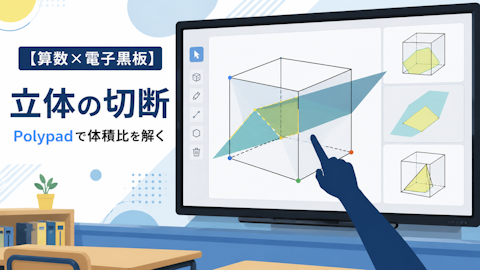
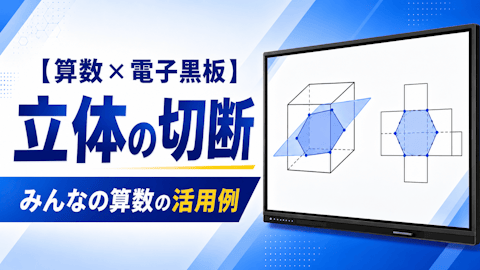
Update microCMS content

diff --git a/columns/minnano-sansu/index.html b/columns/minnano-sansu/index.html
@@ -13,12 +13,12 @@
     <meta charset="UTF-8">
     <meta name="viewport" content="width=device-width, initial-scale=1.0">
     
-    <title>【算数×電子黒板】立体の切断｜Polypadで体積比を解く｜Kokuban BASE</title>
+    <title>【算数×電子黒板】立体の切断｜みんなの算数の活用例｜Kokuban BASE</title>
     <meta name="description" content="中学受験算数の頻出単元「立体の切断」を、電子黒板と無料の立体切断シミュレーターで指導する授業アイデア。切断の3原則の確認から、立方体を回転させて体積を求める応用問題まで、小6直前期に使える授業の流れを紹介します。">
     <link rel="canonical" href="https://kokuban-base.com/columns/minnano-sansu/">
     
     <meta property="og:type" content="article">
-    <meta property="og:title" content="【算数×電子黒板】立体の切断｜Polypadで体積比を解く｜Kokuban BASE">
+    <meta property="og:title" content="【算数×電子黒板】立体の切断｜みんなの算数の活用例｜Kokuban BASE">
     <meta property="og:description" content="中学受験算数の頻出単元「立体の切断」を、電子黒板と無料の立体切断シミュレーターで指導する授業アイデア。切断の3原則の確認から、立方体を回転させて体積を求める応用問題まで、小6直前期に使える授業の流れを紹介します。">
     <meta property="og:url" content="https://kokuban-base.com/columns/minnano-sansu/">
     <meta property="og:image" content="https://kokuban-base.com/assets/eyecatch/denshikokuban-minnano-sansu.png">
@@ -28,7 +28,7 @@
     <meta property="article:modified_time" content="2026-07-28T17:18:28.511Z">
     
     <meta name="twitter:card" content="summary_large_image">
-    <meta name="twitter:title" content="【算数×電子黒板】立体の切断｜Polypadで体積比を解く｜Kokuban BASE">
+    <meta name="twitter:title" content="【算数×電子黒板】立体の切断｜みんなの算数の活用例｜Kokuban BASE">
     <meta name="twitter:description" content="中学受験算数の頻出単元「立体の切断」を、電子黒板と無料の立体切断シミュレーターで指導する授業アイデア。切断の3原則の確認から、立方体を回転させて体積を求める応用問題まで、小6直前期に使える授業の流れを紹介します。">
     <meta name="twitter:image" content="https://kokuban-base.com/assets/eyecatch/denshikokuban-minnano-sansu.png">
     
@@ -38,7 +38,7 @@
             "@context": "https://schema.org",
             "@type": "Article",
             "mainEntityOfPage": { "@type": "WebPage", "@id": "https://kokuban-base.com/columns/minnano-sansu/" },
-            "headline": "【算数×電子黒板】立体の切断｜Polypadで体積比を解く",
+            "headline": "【算数×電子黒板】立体の切断｜みんなの算数の活用例",
             "description": "中学受験算数の頻出単元「立体の切断」を、電子黒板と無料の立体切断シミュレーターで指導する授業アイデア。切断の3原則の確認から、立方体を回転させて体積を求める応用問題まで、小6直前期に使える授業の流れを紹介します。",
             "image": ["https://kokuban-base.com/assets/eyecatch/denshikokuban-minnano-sansu.png"],
             "datePublished": "2026-07-28T17:18:28.511Z",
@@ -56,7 +56,7 @@
             "itemListElement": [
                 { "@type": "ListItem", "position": 1, "name": "トップ", "item": "https://kokuban-base.com/" },
                 { "@type": "ListItem", "position": 2, "name": "コラム", "item": "https://kokuban-base.com/article" },
-                { "@type": "ListItem", "position": 3, "name": "【算数×電子黒板】立体の切断｜Polypadで体積比を解く", "item": "https://kokuban-base.com/columns/minnano-sansu/" }
+                { "@type": "ListItem", "position": 3, "name": "【算数×電子黒板】立体の切断｜みんなの算数の活用例", "item": "https://kokuban-base.com/columns/minnano-sansu/" }
             ]
         }
     ]
@@ -392,7 +392,7 @@
                         <svg class="w-4 h-4 mx-2 text-gray-400" fill="none" stroke="currentColor" viewBox="0 0 24 24" aria-hidden="true"><path stroke-linecap="round" stroke-linejoin="round" stroke-width="2" d="M9 5l7 7-7 7"></path></svg>
                     </li>
                     <li itemprop="itemListElement" itemscope itemtype="https://schema.org/ListItem">
-                        <span aria-current="page" class="font-semibold text-gray-900 line-clamp-1" itemprop="name">【算数×電子黒板】立体の切断｜Polypadで体積比を解く</span>
+                        <span aria-current="page" class="font-semibold text-gray-900 line-clamp-1" itemprop="name">【算数×電子黒板】立体の切断｜みんなの算数の活用例</span>
                         <meta itemprop="position" content="3">
                     </li>
                 </ol>
@@ -404,13 +404,13 @@
                 <!-- アイキャッチ -->
                 <div class="eyecatch-image mb-8 sm:mb-12">
                     <div class="image-wrapper rounded-2xl overflow-hidden shadow-xl">
-                        <img src="/assets/eyecatch/denshikokuban-minnano-sansu.png" alt="【算数×電子黒板】立体の切断｜Polypadで体積比を解く" width="1200" height="630" class="w-full h-auto rounded-lg mb-6 shadow-md" loading="eager" fetchpriority="high">
+                        <img src="/assets/eyecatch/denshikokuban-minnano-sansu.png" alt="【算数×電子黒板】立体の切断｜みんなの算数の活用例" width="1200" height="630" class="w-full h-auto rounded-lg mb-6 shadow-md" loading="eager" fetchpriority="high">
                     </div>
                 </div>
                 
                 <!-- タイトルブロック -->
                 <div class="title-block mb-12 sm:mb-16">
-                    <h1 id="main-article-title" class="text-[clamp(1.15rem,2.4vw,1.875rem)] font-black text-gray-900 mb-6 leading-[1.28]">【算数×電子黒板】立体の切断｜Polypadで体積比を解く</h1>
+                    <h1 id="main-article-title" class="text-[clamp(1.15rem,2.4vw,1.875rem)] font-black text-gray-900 mb-6 leading-[1.28]">【算数×電子黒板】立体の切断｜みんなの算数の活用例</h1>
 
                     
                     <div class="flex flex-col sm:flex-row items-center justify-center space-y-2 sm:space-y-0 sm:space-x-6">
@@ -446,8 +446,8 @@
             </a>
         </li>
         <li class="">
-            <a href="#h07b47ead53" class="toc-link block py-1.5 text-gray-700 hover:text-customBlue transition-colors leading-snug">
-                <span class="toc-bullet"></span>展開2｜さらに、直方体を切ってみた / アニメーション付き
+            <a href="#h90e8cec10e" class="toc-link block py-1.5 text-gray-700 hover:text-customBlue transition-colors leading-snug">
+                <span class="toc-bullet"></span>展開2｜実際の問題を解いてみる
             </a>
         </li>
         <li class="">
@@ -475,13 +475,13 @@
       <span class="internal-link-card__description">https://min-san.com/</span>
       <span class="internal-link-card__site">min-san.com</span>
     </span>
-  </a><h2 id="he6e5558fc5">展開1｜みんなの算数で、立体図形を切ってみる</h2><p>みんなの算数オンラインでは、切り取り点を選択するだけで、切断面を自動表示してくれます。</p><p></p><figure><img src="https://images.microcms-assets.io/assets/55c151aecffc4472b4f77af5a6755e38/5c212acbc3734bdb8a6cf4639f0d51bb/image.png" alt="" width="811" height="787"></figure><p>紙の教材だと、立体切断の解説は「言葉」で終わりがちです。電子黒板で立体切断シミュレーターを開き、立方体を画面いっぱいに映して、1つずつ確認していきます。自由自在に切断点や辺をコントロールできる仕組みなので、<strong>「この点とこの点を選択すると、どんな切断面になるだろうか」</strong>と臨場感のある授業ができます。まさしく電子黒板との相性の良いです。</p><p>「上手くイメージできない。」——これが立体の切断でつまずく子の多くが抱える感覚です。シミュレーターを繰り返し見せることで、少しずつイメージができるようになります。</p><h2 id="h07b47ead53">展開2｜さらに、直方体を切ってみた / アニメーション付き</h2><p>では、実際の問題を活用し、使用してみます。</p><figure><img src="https://images.microcms-assets.io/assets/55c151aecffc4472b4f77af5a6755e38/dccfde6482d64c99ad96a4b67fd128d9/ChatGPT%20Image%202026%E5%B9%B47%E6%9C%8829%E6%97%A5%2002_05_16.png" alt="" width="1254" height="1254"></figure><p>このような問題においても、まず電子黒板上で立体を自由に回転させ、切断面の位置や形をさまざまな角度から確認します。すると、この赤い立体は</p><p></p><figure><img src="https://images.microcms-assets.io/assets/55c151aecffc4472b4f77af5a6755e38/a4e5ecc60fdd405f8d396d7ea0de3b81/image.png" alt="" width="790" height="781"></figure><p>立体を回転させながら確認できるため、紙だけでは分かりにくい「高さ」や「底面」が一目で理解できるのが電子黒板の大きなメリットです。スクリーンショットで切り抜き、ホワイトボードへ添付することも可能です。</p><blockquote><p>立体の展開図を「動かして」理解できる教材はこちら</p><p><a href="/columns/digital-gene/" class="internal-link-card" aria-label="〈電子黒板の活用〉展開図は「動かして」覚える——立方体11種類が操作できるDigital geneで図形授業が変わる">
+  </a><h2 id="he6e5558fc5">展開1｜みんなの算数で、立体図形を切ってみる</h2><p>みんなの算数オンラインでは、切り取り点を選択するだけで、切断面を自動表示してくれます。</p><p></p><figure><img src="https://images.microcms-assets.io/assets/55c151aecffc4472b4f77af5a6755e38/5c212acbc3734bdb8a6cf4639f0d51bb/image.png" alt="" width="811" height="787"></figure><p>紙の教材だと、立体切断の解説は「言葉」で終わりがちです。電子黒板で立体切断シミュレーターを開き、立方体を画面いっぱいに映して、1つずつ確認していきます。自由自在に切断点や辺をコントロールできる仕組みなので、<strong>「この点とこの点を選択すると、どんな切断面になるだろうか」</strong>と臨場感のある授業ができます。まさしく電子黒板との相性の良いです。</p><p>「上手くイメージできない。」——これが立体の切断でつまずく子の多くが抱える感覚です。シミュレーターを繰り返し見せることで、少しずつイメージができるようになります。</p><h2 id="h90e8cec10e">展開2｜実際の問題を解いてみる</h2><p>では、実際の問題を活用し、使用してみます。</p><figure><img src="https://images.microcms-assets.io/assets/55c151aecffc4472b4f77af5a6755e38/dccfde6482d64c99ad96a4b67fd128d9/ChatGPT%20Image%202026%E5%B9%B47%E6%9C%8829%E6%97%A5%2002_05_16.png" alt="" width="1254" height="1254"></figure><p>このような問題においても、まず電子黒板上で立体を自由に回転させ、切断面の位置や形をさまざまな角度から確認します。すると、この赤い立体は</p><p></p><figure><img src="https://images.microcms-assets.io/assets/55c151aecffc4472b4f77af5a6755e38/a4e5ecc60fdd405f8d396d7ea0de3b81/image.png" alt="" width="790" height="781"></figure><p>立体を回転させながら確認できるため、紙だけでは分かりにくい「高さ」や「底面」が一目で理解できるのが電子黒板の大きなメリットです。スクリーンショットで切り抜き、ホワイトボードへ添付することも可能です。</p><blockquote><p>立体の展開図を「動かして」理解できる教材はこちら</p><p><a href="/columns/digital-gene/" class="internal-link-card" aria-label="〈電子黒板の活用〉展開図は「動かして」覚える——立方体11種類が操作できるDigital geneで図形授業が変わる">
     <span class="internal-link-card__image"><img src="https://images.microcms-assets.io/assets/55c151aecffc4472b4f77af5a6755e38/4300f2d9559349e190f44758c3ebac4a/%E7%AB%8B%E4%BD%93%E3%81%AE%E5%B1%95%E9%96%8B%E5%9B%B3%20(4).png?fit=crop&w=320&h=180&q=80" alt="〈電子黒板の活用〉展開図は「動かして」覚える——立方体11種類が操作できるDigital geneで図形授業が変わる" loading="lazy" decoding="async"></span>
     <span class="internal-link-card__body">
       <span class="internal-link-card__title">〈電子黒板の活用〉展開図は「動かして」覚える——立方体11種類が操作できるDigital geneで図形授業が変わる</span>
       <span class="internal-link-card__description">「展開図が苦手」を解消するインタラクティブ教材Digital geneを紹介。電子黒板上で、立方体の展開図11種類をスライダーで動かし、折る・展開する・視点を変える操作で空間認識が育つ。インストール不要でそのまま授業に使える。</span>
     </span>
-  </a> 立方体の展開図を電子黒板で操作しながら学べる教材Digital geneの活用事例を紹介しています。</p></blockquote><h2 id="h68c62756af">展開3｜さらに、直方体を切断 / アニメーション付き</h2><figure><img src="https://images.microcms-assets.io/assets/55c151aecffc4472b4f77af5a6755e38/280c8360d85d4650a47ede6e4e367bdc/CPT2607290213-2304x1229%20(1).gif" alt="" width="2304" height="1229"></figure><p>このようにアニメーション形式で切断を見せると、正しい切り方がきちんと理解できます。</p><p></p><hr><h2 id="h480b4a7239">まとめ：立体図形を想像するのはおしまい</h2><p>今回の授業のポイントを整理します。</p><p>立体の切断は、公式を覚えるだけでは応用問題に対応できません。<strong>「なぜその線が引けるのか」を立体で確認する経験</strong>を積み重ねることが、初見の問題にも対応できる力につながります。</p><blockquote><p>中学受験対策の授業プランは他にも公開しています</p><p><a href="/columns/ifp-lesson-lab-googlemap/" class="internal-link-card" aria-label="〈電子黒板の活用〉Googleマップで中学受験対策―知識が「芋づる式」につながる社会科地理の授業アイデア">
+  </a> 立方体の展開図を電子黒板で操作しながら学べる教材Digital geneの活用事例を紹介しています。</p></blockquote><h2 id="h68c62756af">展開3｜さらに、直方体を切断 / アニメーション付き</h2><figure><img src="https://images.microcms-assets.io/assets/55c151aecffc4472b4f77af5a6755e38/280c8360d85d4650a47ede6e4e367bdc/CPT2607290213-2304x1229%20(1).gif" alt="" width="2304" height="1229"></figure><p>このようにアニメーション形式で切断を見せると、正しい切り方がきちんと理解できます。</p><h2 id="h480b4a7239">まとめ：立体図形を想像するのはおしまい</h2><p>今回の授業のポイントを整理します。</p><p>立体の切断は、公式を覚えるだけでは応用問題に対応できません。<strong>「なぜその線が引けるのか」を立体で確認する経験</strong>を積み重ねることが、初見の問題にも対応できる力につながります。</p><blockquote><p>中学受験対策の授業プランは他にも公開しています</p><p><a href="/columns/ifp-lesson-lab-googlemap/" class="internal-link-card" aria-label="〈電子黒板の活用〉Googleマップで中学受験対策―知識が「芋づる式」につながる社会科地理の授業アイデア">
     <span class="internal-link-card__image"><img src="https://images.microcms-assets.io/assets/55c151aecffc4472b4f77af5a6755e38/2511d88d2db147f3b18c9d8cfca5c48e/%E3%83%94%E3%83%B3%E3%82%AF%20%E3%82%B0%E3%83%AC%E3%83%BC%20%E7%9B%AE%E7%AB%8B%E3%81%A4%20YouTube%20%E3%82%B5%E3%83%A0%E3%83%8D%E3%82%A4%E3%83%AB%20(3).png?fit=crop&w=320&h=180&q=80" alt="〈電子黒板の活用〉Googleマップで中学受験対策―知識が「芋づる式」につながる社会科地理の授業アイデア" loading="lazy" decoding="async"></span>
     <span class="internal-link-card__body">
       <span class="internal-link-card__title">〈電子黒板の活用〉Googleマップで中学受験対策―知識が「芋づる式」につながる社会科地理の授業アイデア</span>
@@ -532,9 +532,9 @@
                 <div class="mt-20 py-10 border-t border-gray-100">
                     <h3 class="text-base font-bold text-center text-gray-500 uppercase tracking-widest mb-6">Share this article</h3>
                     <div class="flex justify-center items-center gap-6">
-                        <a href="https://twitter.com/intent/tweet?url=https%3A%2F%2Fkokuban-base.com%2Fcolumns%2Fminnano-sansu%2F&text=%E3%80%90%E7%AE%97%E6%95%B0%C3%97%E9%9B%BB%E5%AD%90%E9%BB%92%E6%9D%BF%E3%80%91%E7%AB%8B%E4%BD%93%E3%81%AE%E5%88%87%E6%96%AD%EF%BD%9CPolypad%E3%81%A7%E4%BD%93%E7%A9%8D%E6%AF%94%E3%82%92%E8%A7%A3%E3%81%8F%EF%BD%9CKokuban%20BASE" target="_blank" rel="noopener noreferrer" aria-label="X" class="share-button share-twitter"><i class="fab fa-x-twitter text-xl"></i></a>
+                        <a href="https://twitter.com/intent/tweet?url=https%3A%2F%2Fkokuban-base.com%2Fcolumns%2Fminnano-sansu%2F&text=%E3%80%90%E7%AE%97%E6%95%B0%C3%97%E9%9B%BB%E5%AD%90%E9%BB%92%E6%9D%BF%E3%80%91%E7%AB%8B%E4%BD%93%E3%81%AE%E5%88%87%E6%96%AD%EF%BD%9C%E3%81%BF%E3%82%93%E3%81%AA%E3%81%AE%E7%AE%97%E6%95%B0%E3%81%AE%E6%B4%BB%E7%94%A8%E4%BE%8B%EF%BD%9CKokuban%20BASE" target="_blank" rel="noopener noreferrer" aria-label="X" class="share-button share-twitter"><i class="fab fa-x-twitter text-xl"></i></a>
                         <a href="https://www.facebook.com/sharer/sharer.php?u=https%3A%2F%2Fkokuban-base.com%2Fcolumns%2Fminnano-sansu%2F" target="_blank" rel="noopener noreferrer" aria-label="Facebook" class="share-button share-facebook"><i class="fab fa-facebook-f text-xl"></i></a>
-                        <a href="https://social-plugins.line.me/lineit/share?url=https%3A%2F%2Fkokuban-base.com%2Fcolumns%2Fminnano-sansu%2F&text=%E3%80%90%E7%AE%97%E6%95%B0%C3%97%E9%9B%BB%E5%AD%90%E9%BB%92%E6%9D%BF%E3%80%91%E7%AB%8B%E4%BD%93%E3%81%AE%E5%88%87%E6%96%AD%EF%BD%9CPolypad%E3%81%A7%E4%BD%93%E7%A9%8D%E6%AF%94%E3%82%92%E8%A7%A3%E3%81%8F%EF%BD%9CKokuban%20BASE" target="_blank" rel="noopener noreferrer" aria-label="LINE" class="share-button share-line"><i class="fab fa-line text-2xl"></i></a>
+                        <a href="https://social-plugins.line.me/lineit/share?url=https%3A%2F%2Fkokuban-base.com%2Fcolumns%2Fminnano-sansu%2F&text=%E3%80%90%E7%AE%97%E6%95%B0%C3%97%E9%9B%BB%E5%AD%90%E9%BB%92%E6%9D%BF%E3%80%91%E7%AB%8B%E4%BD%93%E3%81%AE%E5%88%87%E6%96%AD%EF%BD%9C%E3%81%BF%E3%82%93%E3%81%AA%E3%81%AE%E7%AE%97%E6%95%B0%E3%81%AE%E6%B4%BB%E7%94%A8%E4%BE%8B%EF%BD%9CKokuban%20BASE" target="_blank" rel="noopener noreferrer" aria-label="LINE" class="share-button share-line"><i class="fab fa-line text-2xl"></i></a>
                     </div>
                 </div>
             </article>

diff --git a/index.html b/index.html
@@ -339,7 +339,7 @@
       </div>
       <div id="error-container-news" class="column-error" hidden aria-hidden="true"></div>
       <div id="articles-container" class="column-grid"><!-- BUILD:TOP-COLUMNS -->
-        <article class="column-card"><a href="columns/minnano-sansu/"><div class="column-thumb column-thumb-img"><img src="https://kokuban-base.com/assets/eyecatch/denshikokuban-minnano-sansu-thumb.png" alt="【算数×電子黒板】立体の切断｜Polypadで体積比を解く" loading="lazy" decoding="async"></div><time datetime="2026-07-28T17:18:28.511Z">2026.07.29</time><span class="column-new">NEW</span><h3>【算数×電子黒板】立体の切断｜Polypadで体積比を解く</h3></a></article>
+        <article class="column-card"><a href="columns/minnano-sansu/"><div class="column-thumb column-thumb-img"><img src="https://kokuban-base.com/assets/eyecatch/denshikokuban-minnano-sansu-thumb.png" alt="【算数×電子黒板】立体の切断｜みんなの算数の活用例" loading="lazy" decoding="async"></div><time datetime="2026-07-28T17:18:28.511Z">2026.07.29</time><span class="column-new">NEW</span><h3>【算数×電子黒板】立体の切断｜みんなの算数の活用例</h3></a></article>
         <article class="column-card"><a href="columns/desmos/"><div class="column-thumb column-thumb-img"><img src="https://kokuban-base.com/assets/eyecatch/denshikokuban-desmos-thumb.png" alt="【数学×電子黒板】Desmos幾何学で“公式の意味”を見せる授業プラン" loading="lazy" decoding="async"></div><time datetime="2026-07-27T15:05:57.057Z">2026.07.28</time><span class="column-new">NEW</span><h3>【数学×電子黒板】Desmos幾何学で“公式の意味”を見せる授業プラン</h3></a></article>
         <article class="column-card"><a href="columns/geogebra/"><div class="column-thumb column-thumb-img"><img src="https://kokuban-base.com/assets/eyecatch/denshikokuban-geogebra-thumb.png" alt="電子黒板×GeoGebraで数学を動かす｜ChatGPTを使った応用編も掲載" loading="lazy" decoding="async"></div><time datetime="2026-07-26T16:39:37.612Z">2026.07.27</time><span class="column-new">NEW</span><h3>電子黒板×GeoGebraで数学を動かす｜ChatGPTを使った応用編も掲載</h3></a></article>
       <!-- /BUILD:TOP-COLUMNS --></div>

diff --git a/article/index.html b/article/index.html
@@ -80,10 +80,10 @@
 
       <article class="kb-art-card" data-cats="電子黒板の活用事例">
         <a href="/columns/minnano-sansu/">
-          <figure><img src="https://images.microcms-assets.io/assets/55c151aecffc4472b4f77af5a6755e38/786299ff03fc4e858b322a0afad5c53a/ChatGPT%20Image%202026%E5%B9%B47%E6%9C%881%E6%97%A5%2013_53_32.png?fit=crop&w=480&h=270&q=80" alt="【算数×電子黒板】立体の切断｜Polypadで体積比を解く" loading="lazy" decoding="async"></figure>
+          <figure><img src="https://images.microcms-assets.io/assets/55c151aecffc4472b4f77af5a6755e38/823fd0e7510344079068817282af1a9a/ChatGPT%20Image%202026%E5%B9%B47%E6%9C%8829%E6%97%A5%2002_23_27%20(1).png?fit=crop&w=480&h=270&q=80" alt="【算数×電子黒板】立体の切断｜みんなの算数の活用例" loading="lazy" decoding="async"></figure>
           <div class="kb-art-card__body">
             <div class="kb-art-card__meta"><span class="cat">電子黒板の活用事例</span><time>2026.07.29</time></div>
-            <h2>【算数×電子黒板】立体の切断｜Polypadで体積比を解く</h2>
+            <h2>【算数×電子黒板】立体の切断｜みんなの算数の活用例</h2>
             <p>中学受験算数の頻出単元「立体の切断」を、電子黒板と無料の立体切断シミュレーターで指導する授業アイデア。切断の3原則の確認から、立方体を回転させて体積を求める応用問題まで、小6直前期に使える授業の流れを紹介します。</p>
           </div>
         </a>
